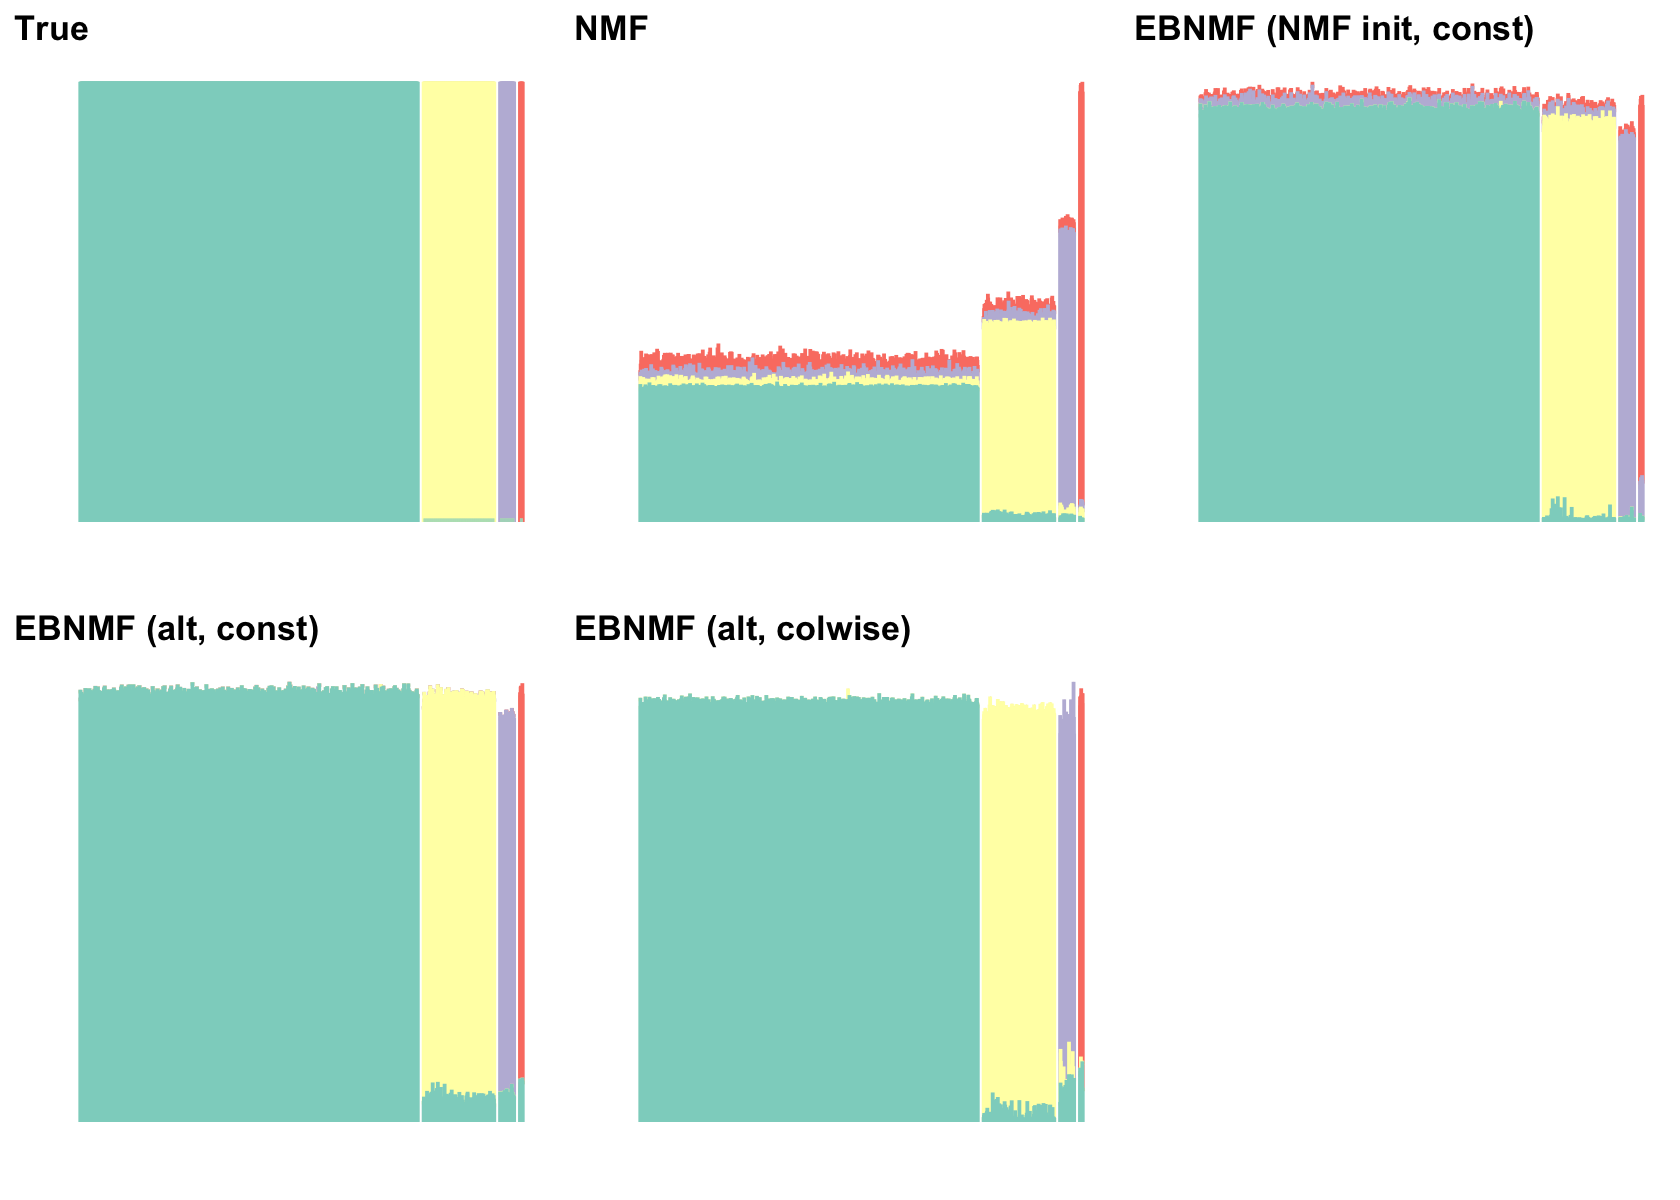
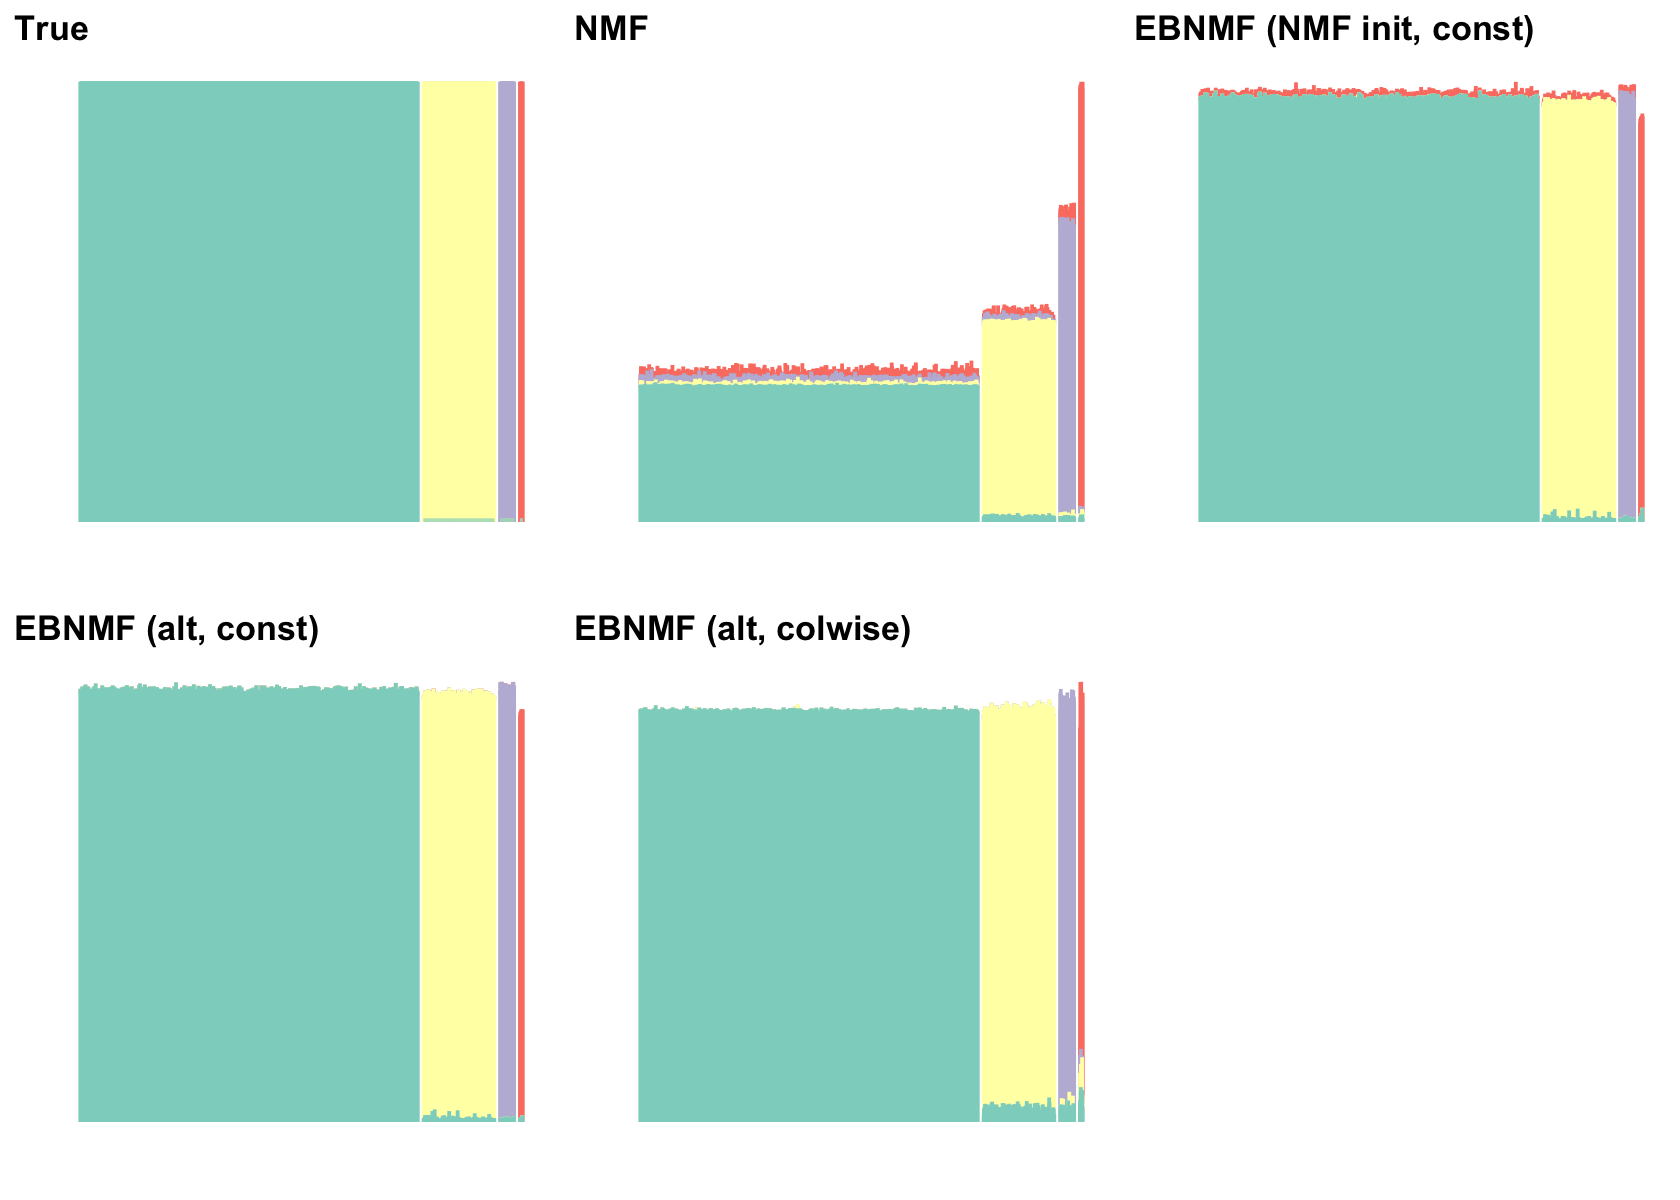
Build site.

diff --git a/docs/sim_scenario1.html b/docs/sim_scenario1.html
@@ -531,15 +531,15 @@ project makes it easier to run your code on other machines.</p>
 <div class="panel panel-default">
 <div class="panel-heading">
 <p class="panel-title">
-<a data-toggle="collapse" data-parent="#workflowr-checks" href="#strongRepositoryversionstrongahrefhttpsgithubcomwillwerscheidebnmfpapertree27544909aceed5086b6e387b195149391fbdff11targetblank2754490a">
+<a data-toggle="collapse" data-parent="#workflowr-checks" href="#strongRepositoryversionstrongahrefhttpsgithubcomwillwerscheidebnmfpapertreee309769b684d506b27f780ca48155967c42e5f55targetblanke309769a">
 <span class="glyphicon glyphicon-ok text-success"
 aria-hidden="true"></span> <strong>Repository version:</strong>
-<a href="https://github.com/willwerscheid/ebnmf-paper/tree/27544909aceed5086b6e387b195149391fbdff11" target="_blank">2754490</a>
+<a href="https://github.com/willwerscheid/ebnmf-paper/tree/e309769b684d506b27f780ca48155967c42e5f55" target="_blank">e309769</a>
 </a>
 </p>
 </div>
 <div
[2 lines of base64/hex data omitted]
 class="panel-collapse collapse">
 <div class="panel-body">
 <p>
@@ -549,7 +549,7 @@ reproducibility.
 </p>
 <p>
 The results in this page were generated with repository version
-<a href="https://github.com/willwerscheid/ebnmf-paper/tree/27544909aceed5086b6e387b195149391fbdff11" target="_blank">2754490</a>.
+<a href="https://github.com/willwerscheid/ebnmf-paper/tree/e309769b684d506b27f780ca48155967c42e5f55" target="_blank">e309769</a>.
 See the <em>Past versions</em> tab to see a history of the changes made
 to the R Markdown and HTML files.
 </p>
@@ -575,7 +575,6 @@ Ignored files:
 Untracked files:
     Untracked:  analysis/sim_scenario2_copy.Rmd
     Untracked:  analysis/simdata3.Rmd
-    Untracked:  code/sim_functions.R
     Untracked:  matlab/simdata3.m
     Untracked:  matlab/simdata3.mat
     Untracked:  matlab/simdata3_nmf_sW=0.5.mat
@@ -667,6 +666,9 @@ Unstaged changes:
     Modified:   analysis/simdata2.Rmd
     Modified:   matlab/simdata2.mat
 
+Staged changes:
+    New:        code/sim_functions.R
+
 </code></pre>
 <p>
 Note that any generated files, e.g. HTML, png, CSS, etc., are not
@@ -710,6 +712,40 @@ Message
 </tr>
 </thead>
 <tbody>
+<tr>
+<td>
+Rmd
+</td>
+<td>
+<a href="https://github.com/willwerscheid/ebnmf-paper/blob/e309769b684d506b27f780ca48155967c42e5f55/analysis/sim_scenario1.Rmd" target="_blank">e309769</a>
+</td>
+<td>
+Jason Willwerscheid
+</td>
+<td>
+2025-08-22
+</td>
+<td>
+workflowr::wflow_publish("analysis/sim_scenario1.Rmd")
+</td>
+</tr>
+<tr>
+<td>
+html
+</td>
+<td>
+<a href="https://rawcdn.githack.com/willwerscheid/ebnmf-paper/bcf66b1209be60264dc507476d2a810229fd7d5e/docs/sim_scenario1.html" target="_blank">bcf66b1</a>
+</td>
+<td>
+Jason Willwerscheid
+</td>
+<td>
+2025-08-22
+</td>
+<td>
+Build site.
+</td>
+</tr>
 <tr>
 <td>
 Rmd
@@ -1116,10 +1152,86 @@ prior on <code>F</code> and rare population size):</p>
 xlabel &lt;- &quot;Size of rarest population&quot;
 make_corplot(all_res |&gt; filter(Kmax == trueK, str_starts(metric_type, &quot;LLcor&quot;)), &quot;Cor. w/ true L&quot;)</code></pre>
 <p><img src="figure/sim_scenario1.Rmd/unnamed-chunk-3-1.png" width="840" style="display: block; margin: auto;" /></p>
+<p>
+<button type="button" class="btn btn-default btn-xs btn-workflowr btn-workflowr-fig" data-toggle="collapse" data-target="#fig-unnamed-chunk-3-1">
+Past versions of unnamed-chunk-3-1.png
+</button>
+</p>
+<div id="fig-unnamed-chunk-3-1" class="collapse">
+<div class="table-responsive">
+<table class="table table-condensed table-hover">
+<thead>
+<tr>
+<th>
+Version
+</th>
+<th>
+Author
+</th>
+<th>
+Date
+</th>
+</tr>
+</thead>
+<tbody>
+<tr>
+<td>
+<a href="https://github.com/willwerscheid/ebnmf-paper/blob/bcf66b1209be60264dc507476d2a810229fd7d5e/docs/figure/sim_scenario1.Rmd/unnamed-chunk-3-1.png" target="_blank">bcf66b1</a>
+</td>
+<td>
+Jason Willwerscheid
+</td>
+<td>
+2025-08-22
+</td>
+</tr>
+</tbody>
+</table>
+</div>
+</div>
 <p>Correlations for <code>F</code>:</p>
 <pre class="r"><code>make_corplot(all_res |&gt; filter(Kmax == trueK, str_starts(metric_type, &quot;FFcor&quot;)), &quot;Cor. w/ true F&quot;)</code></pre>
-<p><img src="figure/sim_scenario1.Rmd/unnamed-chunk-4-1.png" width="840" style="display: block; margin: auto;" />
-### Comments, Kmax = 4</p>
+<p><img src="figure/sim_scenario1.Rmd/unnamed-chunk-4-1.png" width="840" style="display: block; margin: auto;" /></p>
+<p>
+<button type="button" class="btn btn-default btn-xs btn-workflowr btn-workflowr-fig" data-toggle="collapse" data-target="#fig-unnamed-chunk-4-1">
+Past versions of unnamed-chunk-4-1.png
+</button>
+</p>
+<div id="fig-unnamed-chunk-4-1" class="collapse">
+<div class="table-responsive">
+<table class="table table-condensed table-hover">
+<thead>
+<tr>
+<th>
+Version
+</th>
+<th>
+Author
+</th>
+<th>
+Date
+</th>
+</tr>
+</thead>
+<tbody>
+<tr>
+<td>
+<a href="https://github.com/willwerscheid/ebnmf-paper/blob/bcf66b1209be60264dc507476d2a810229fd7d5e/docs/figure/sim_scenario1.Rmd/unnamed-chunk-4-1.png" target="_blank">bcf66b1</a>
+</td>
+<td>
+Jason Willwerscheid
+</td>
+<td>
+2025-08-22
+</td>
+</tr>
+</tbody>
+</table>
+</div>
+</div>
+</div>
+<div id="comments-kmax-4" class="section level3">
+<h3>Comments, Kmax = 4</h3>
 <p>All EBNMF methods outperform NMF in estimating <code>L</code> but all
 methods, including NMF, perform very similarly in estimating
 <code>F</code>. This makes sense, since the true <code>L</code> is
@@ -1137,15 +1249,15 @@ similar across all columnwise-variance methods.</p>
 <div id="example-kmax-4" class="section level3">
 <h3>Example, Kmax = 4</h3>
 <p>It will suffice to illustrate results for NMF, EBNMFnmf0, EBNMFalt0,
-and EBNMFalt2. We’ll consider the setting where <code>shape = 2,</code>
+and EBNMFalt2. We’ll consider the setting where <code>shape = 1,</code>
 with the size of the rarest population equal to 10.</p>
-<pre class="r"><code>shape &lt;- 2
-scale &lt;- 1 / 2
+<pre class="r"><code>shape &lt;- 1
+scale &lt;- 1
 
 ns &lt;- c(1190, 250, 50, 10)
 p &lt;- 1000
 
-set.seed(15)
+set.seed(14)
 sim_dat &lt;- sim_data(ns, p, gamma_shape = shape, gamma_scale = scale)
 Y &lt;- sim_dat$Y
 
@@ -1198,6 +1310,17 @@ Date
 </tr>
 </thead>
 <tbody>
+<tr>
+<td>
+<a href="https://github.com/willwerscheid/ebnmf-paper/blob/bcf66b1209be60264dc507476d2a810229fd7d5e/docs/figure/sim_scenario1.Rmd/unnamed-chunk-6-1.png" target="_blank">bcf66b1</a>
+</td>
+<td>
+Jason Willwerscheid
+</td>
+<td>
+2025-08-22
+</td>
+</tr>
 <tr>
 <td>
 <a href="https://github.com/willwerscheid/ebnmf-paper/blob/9e1347f2a7140dbaec784e3e535394951e2a0054/docs/figure/sim_scenario1.Rmd/unnamed-chunk-6-1.png" target="_blank">9e1347f</a>
@@ -1270,6 +1393,17 @@ Date
 <tbody>
 <tr>
 <td>
+<a href="https://github.com/willwerscheid/ebnmf-paper/blob/bcf66b1209be60264dc507476d2a810229fd7d5e/docs/figure/sim_scenario1.Rmd/unnamed-chunk-7-1.png" target="_blank">bcf66b1</a>
+</td>
+<td>
+Jason Willwerscheid
+</td>
+<td>
+2025-08-22
+</td>
+</tr>
+<tr>
+<td>
 <a href="https://github.com/willwerscheid/ebnmf-paper/blob/9e1347f2a7140dbaec784e3e535394951e2a0054/docs/figure/sim_scenario1.Rmd/unnamed-chunk-7-1.png" target="_blank">9e1347f</a>
 </td>
 <td>
@@ -1330,6 +1464,17 @@ Date
 </tr>
 </thead>
 <tbody>
+<tr>
+<td>
+<a href="https://github.com/willwerscheid/ebnmf-paper/blob/bcf66b1209be60264dc507476d2a810229fd7d5e/docs/figure/sim_scenario1.Rmd/unnamed-chunk-8-1.png" target="_blank">bcf66b1</a>
+</td>
+<td>
+Jason Willwerscheid
+</td>
+<td>
+2025-08-22
+</td>
+</tr>
 <tr>
 <td>
 <a href="https://github.com/willwerscheid/ebnmf-paper/blob/9e1347f2a7140dbaec784e3e535394951e2a0054/docs/figure/sim_scenario1.Rmd/unnamed-chunk-8-1.png" target="_blank">9e1347f</a>
@@ -1394,6 +1539,17 @@ Date
 </tr>
 </thead>
 <tbody>
+<tr>
+<td>
+<a href="https://github.com/willwerscheid/ebnmf-paper/blob/bcf66b1209be60264dc507476d2a810229fd7d5e/docs/figure/sim_scenario1.Rmd/unnamed-chunk-9-1.png" target="_blank">bcf66b1</a>
+</td>
+<td>
+Jason Willwerscheid
+</td>
+<td>
+2025-08-22
+</td>
+</tr>
 <tr>
 <td>
 <a href="https://github.com/willwerscheid/ebnmf-paper/blob/9e1347f2a7140dbaec784e3e535394951e2a0054/docs/figure/sim_scenario1.Rmd/unnamed-chunk-9-1.png" target="_blank">9e1347f</a>
@@ -1482,6 +1638,43 @@ ex_plots_k8[[6]] &lt;- plot_fl(ebnmf_res_alt2_k8$fit, sim_dat$L, &quot;EBNMF (al
 
 plot_grid(plotlist = ex_plots_k8, nrow = 3, ncol = 2)</code></pre>
 <p><img src="figure/sim_scenario1.Rmd/unnamed-chunk-11-1.png" width="840" style="display: block; margin: auto;" /></p>
+<p>
+<button type="button" class="btn btn-default btn-xs btn-workflowr btn-workflowr-fig" data-toggle="collapse" data-target="#fig-unnamed-chunk-11-1">
+Past versions of unnamed-chunk-11-1.png
+</button>
+</p>
+<div id="fig-unnamed-chunk-11-1" class="collapse">
+<div class="table-responsive">
+<table class="table table-condensed table-hover">
+<thead>
+<tr>
+<th>
+Version
+</th>
+<th>
+Author
+</th>
+<th>
+Date
+</th>
+</tr>
+</thead>
+<tbody>
+<tr>
+<td>
+<a href="https://github.com/willwerscheid/ebnmf-paper/blob/bcf66b1209be60264dc507476d2a810229fd7d5e/docs/figure/sim_scenario1.Rmd/unnamed-chunk-11-1.png" target="_blank">bcf66b1</a>
+</td>
+<td>
+Jason Willwerscheid
+</td>
+<td>
+2025-08-22
+</td>
+</tr>
+</tbody>
+</table>
+</div>
+</div>
 <p>The NMF-initialization results appear pretty unsatisfactory. The
 columnwise-variance alternating result does slightly less well in
 estimating the fourth component, but overall the cleanness of the
@@ -1502,6 +1695,43 @@ ggplot(plot_df, aes(x = varied_n, y = shape, fill = metric_val)) +
   labs(x = xlabel, y = &quot;Shape of gamma prior on factors&quot;, fill = &quot;Time elapsed (s)&quot;) +
   theme(axis.text.x = element_text(angle = 45))</code></pre>
 <p><img src="figure/sim_scenario1.Rmd/unnamed-chunk-12-1.png" width="840" style="display: block; margin: auto;" /></p>
+<p>
+<button type="button" class="btn btn-default btn-xs btn-workflowr btn-workflowr-fig" data-toggle="collapse" data-target="#fig-unnamed-chunk-12-1">
+Past versions of unnamed-chunk-12-1.png
+</button>
+</p>
+<div id="fig-unnamed-chunk-12-1" class="collapse">
+<div class="table-responsive">
+<table class="table table-condensed table-hover">
+<thead>
+<tr>
+<th>
+Version
+</th>
+<th>
+Author
+</th>
+<th>
+Date
+</th>
+</tr>
+</thead>
+<tbody>
+<tr>
+<td>
+<a href="https://github.com/willwerscheid/ebnmf-paper/blob/bcf66b1209be60264dc507476d2a810229fd7d5e/docs/figure/sim_scenario1.Rmd/unnamed-chunk-12-1.png" target="_blank">bcf66b1</a>
+</td>
+<td>
+Jason Willwerscheid
+</td>
+<td>
+2025-08-22
+</td>
+</tr>
+</tbody>
+</table>
+</div>
+</div>
 </div>
 <div id="comments-overall" class="section level3">
 <h3>Comments, overall</h3>
